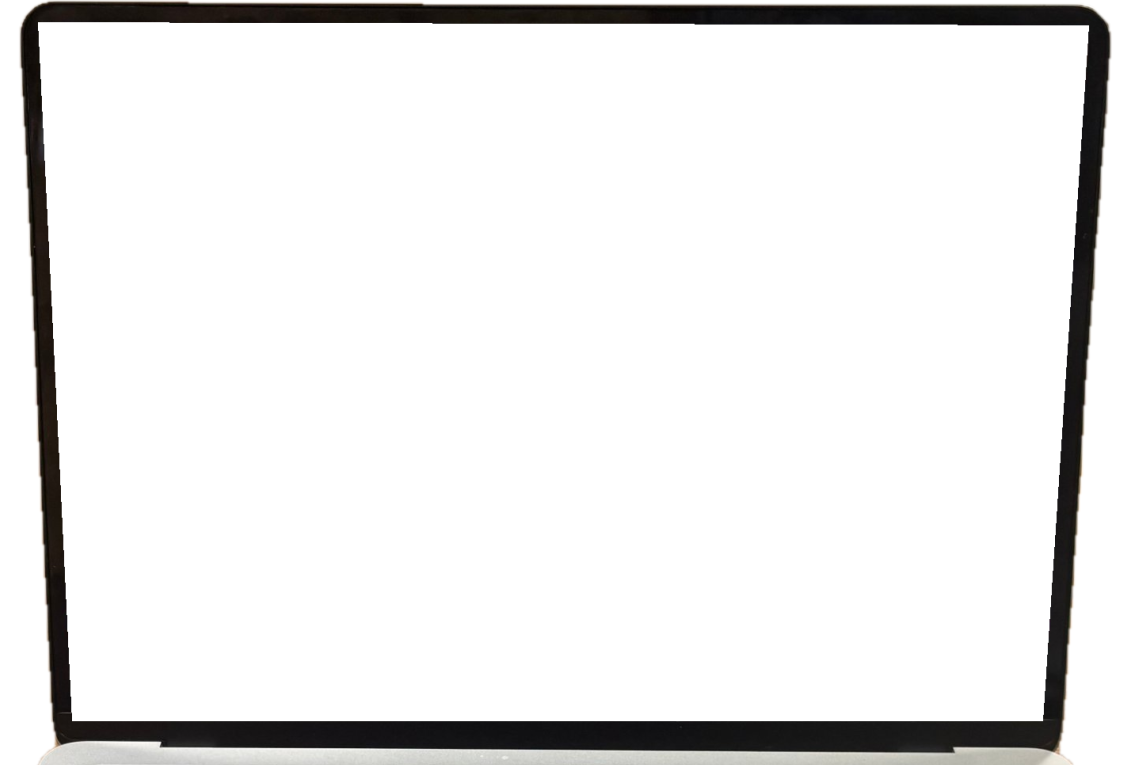
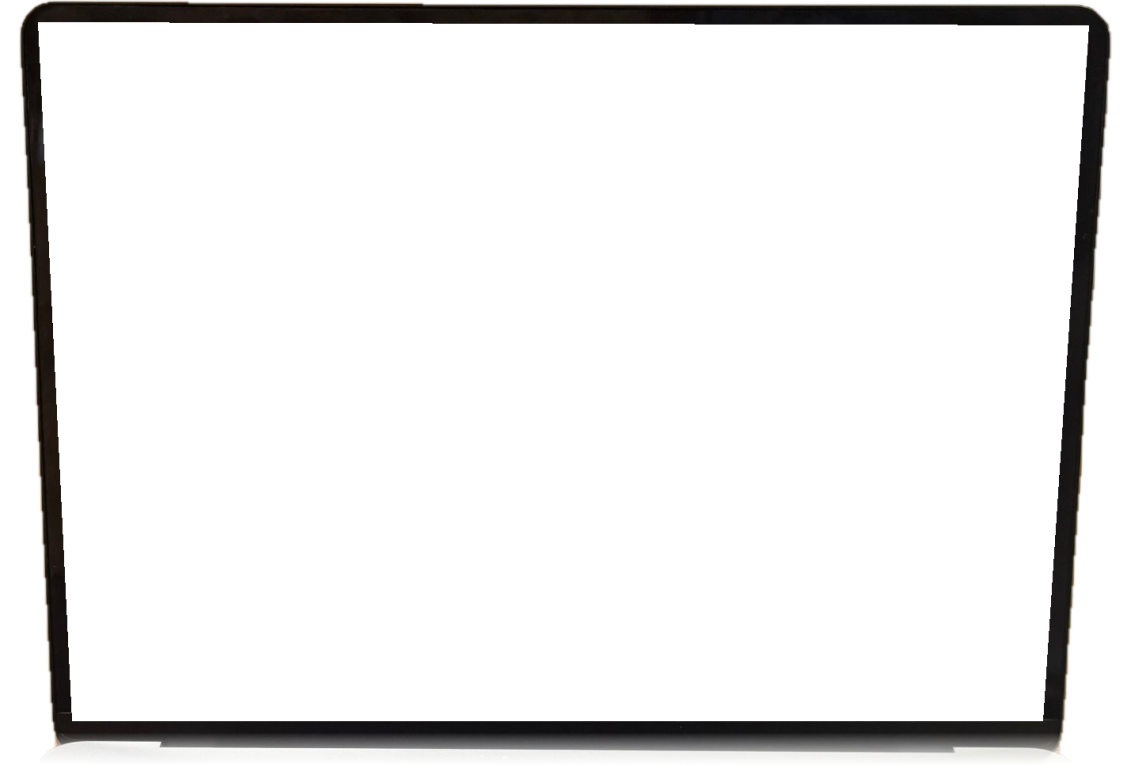
added an edited laptop image, removed names from laptop screen, readjusted screen size and editing in css

Changed region(s): [[0.0311, 0.9621, 0.9627, 1.0]]

diff --git a/index.html b/index.html
@@ -31,11 +31,6 @@
             <div class="content call-content">
                 <video id="callVideo" src="assets/zoom.mp4" controls></video>
 
-                <div class="names">
-                    <span>Irma</span>
-                    <span>Jayden</span>
-                </div>
-
                 <!-- <button id="startButton" class="button">Start call</button> -->
                 <button id="exploreButton" class="button hidden">Explore their days</button>
 

diff --git a/styles.css b/styles.css
@@ -106,17 +106,9 @@ body {
 
 #callVideo {
     width: 100%;
-    height: calc(100% - 30px);
+    height: 100%;
     display: block;
     background-color: #2c2c2e;
-}
-
-.names {
-    display: flex;
-    justify-content: space-around;
-    color: white;
-    font-size: 14px;
-    padding-top: 8px;
 }
 
 .button {
